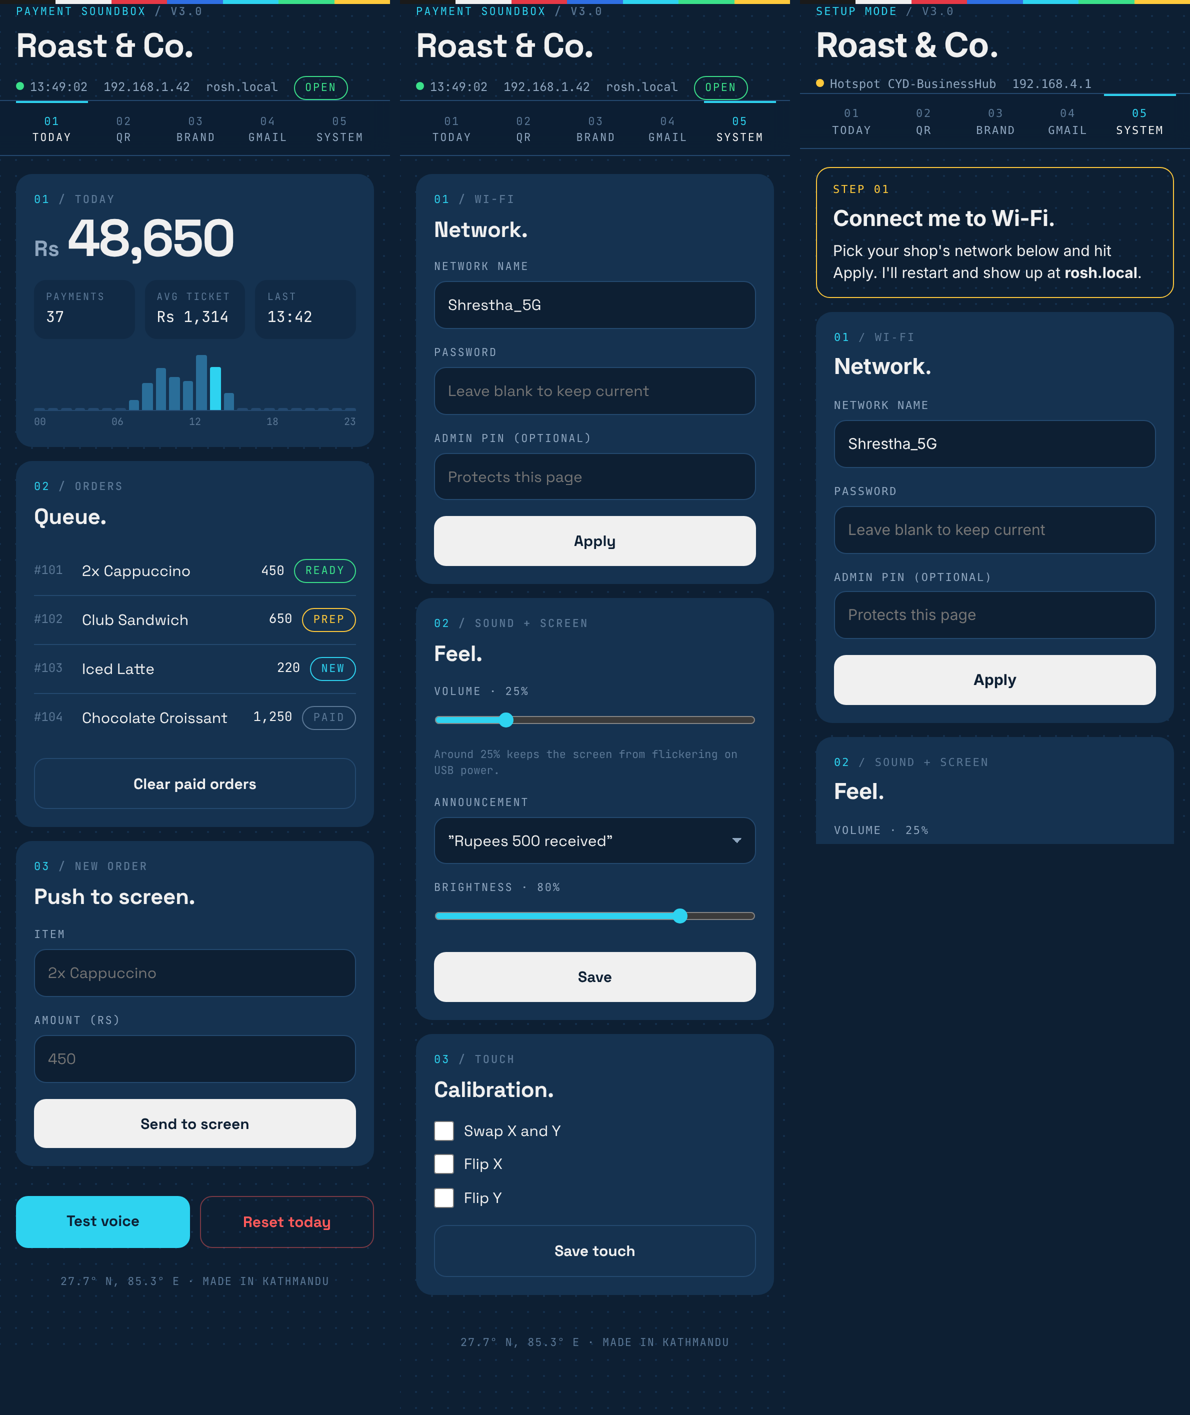
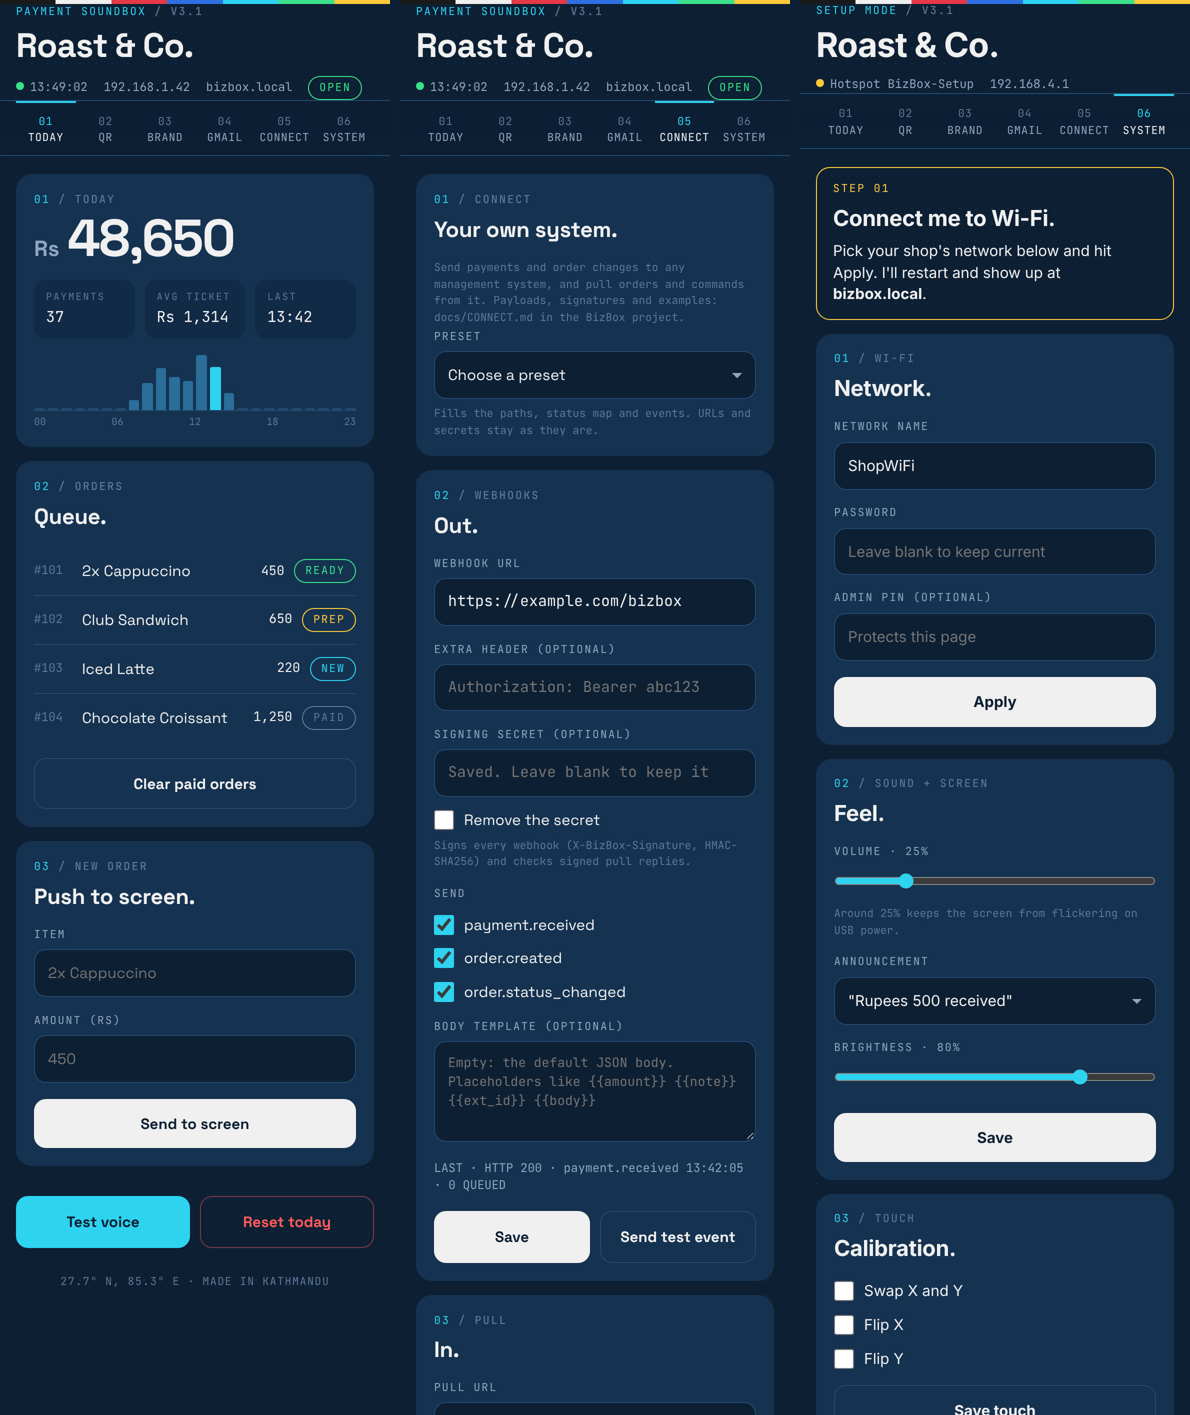
v3.1; fit six dashboard tabs on a phone; regenerate dashboard preview
- FW_VERSION 3.1 (new NVS keys, API auth, Connect). Only the boot
  screen's version label changes in the previews.
- With the Connect tab the System tab slid off-screen on a 390 px phone
  (and it's the active tab in setup mode): tabs are a bit narrower and
  the active one is scrolled into view.
- preview.sh --web now builds previews/dashboard-previews.png itself
  (Today, Connect, setup mode) from the sample data, replacing a manual
  screenshot that showed a real home network name.

Claude-Session: https://claude.ai/code/session_01YArwWxDtcxVketRmg6nC3F

diff --git a/web.h b/web.h
@@ -29,7 +29,7 @@ h2{font-size:22px;font-weight:700;letter-spacing:-.01em;margin:6px 0 14px}
 .pill.open{color:var(--green)}.pill.closed{color:var(--red)}
 .tabs{position:sticky;top:0;z-index:9;background:rgba(13,31,51,.94);backdrop-filter:blur(8px);-webkit-backdrop-filter:blur(8px);border-top:1px solid var(--line);border-bottom:1px solid var(--line);margin-bottom:18px}
 .tabs .wrap{display:flex;overflow-x:auto;scrollbar-width:none}
-.tab{flex:1;min-width:72px;background:none;border:0;color:var(--muted);padding:10px 4px 9px;font-size:11px;letter-spacing:.12em;text-transform:uppercase;cursor:pointer;border-top:2px solid transparent;line-height:1.5}
+.tab{flex:1;min-width:54px;background:none;border:0;color:var(--muted);padding:10px 2px 9px;font-size:11px;letter-spacing:.05em;text-transform:uppercase;cursor:pointer;border-top:2px solid transparent;line-height:1.5}
 .tab i{display:block;font-style:normal;color:var(--dim)}
 .tab.on{color:var(--ink);border-top-color:var(--cyan)}.tab.on i{color:var(--cyan)}
 .pane{display:none}.pane.on{display:block}
@@ -107,6 +107,7 @@ const mx=Math.max(1,...s.hourly);$('#bars').innerHTML=s.hourly.map((v,h)=>'<div 
 $('#orders').innerHTML=s.orders.length?s.orders.map(o=>'<div class="row"><span class="id">#'+o.id+'</span><span class="t">'+esc(o.title)+'</span><span class="a">'+(o.amount?amt(o.amount):'-')+'</span><span class="pill s-'+o.status+'">'+o.status+'</span></div>').join(''):'<p class="empty">Nothing queued.</p>';}
 function refresh(){api('/api/state').then(r=>r.json()).then(render).catch(()=>{})}
 try{const t=localStorage.getItem('tab');if(t&&$('#'+t)&&!document.body.dataset.portal){tab(t,$('[data-t='+t+']'))}}catch(e){}
+try{$('.tab.on').scrollIntoView({inline:'nearest',block:'nearest'})}catch(e){}
 try{const sel=$('#cxpreset');PRESETS.forEach((p,i)=>{const o=document.createElement('option');o.value=i;o.textContent=p.name;sel.appendChild(o)})}catch(e){}
 if(!document.body.dataset.portal){refresh();setInterval(()=>{if(!document.hidden)refresh()},5000);document.addEventListener('visibilitychange',()=>{if(!document.hidden)refresh()})}
 )JS";

diff --git a/tools/check/shot.py b/tools/check/shot.py
@@ -14,11 +14,21 @@ async def main():
         await pg.route('**/fonts.googleapis.com/**',fonts)
         await pg.route('**/fonts.gstatic.com/**',lambda r: r.abort())
         await pg.goto('file://'+TMP+'/dash.html'); await pg.wait_for_timeout(400)
-        await pg.screenshot(path=OUT+'/web_today.png',full_page=True)
+        await pg.screenshot(path=TMP+'/web_today.png',full_page=True)
         for t,n in [('t-qr','web_qr'),('t-gmail','web_gmail'),('t-cx','web_connect'),('t-sys','web_sys')]:
             await pg.click(f'[data-t={t}]'); await pg.wait_for_timeout(150)
-            await pg.screenshot(path=OUT+'/'+n+'.png',full_page=True)
+            await pg.screenshot(path=TMP+'/'+n+'.png',full_page=True)
         await pg.goto('file://'+TMP+'/portal.html'); await pg.wait_for_timeout(300)
-        await pg.screenshot(path=OUT+'/web_portal.png',full_page=False)
+        await pg.screenshot(path=TMP+'/web_portal.png',full_page=True)
         await b.close()
 asyncio.run(main())
+
+# Contact sheet for the README: Today, Connect, setup mode (first ~1400 px of each)
+from PIL import Image
+panels=[Image.open(TMP+'/'+n+'.png') for n in ('web_today','web_connect','web_portal')]
+H=1415
+sheet=Image.new('RGB',(390*3+20,H),(13,31,51))
+for i,im in enumerate(panels):
+    im=im.resize((390,int(im.height*390/im.width)))
+    sheet.paste(im.crop((0,0,390,min(H,im.height))),(i*400,0))
+sheet.save(OUT+'/dashboard-previews.png')

diff --git a/model.h b/model.h
@@ -92,4 +92,4 @@ const char* const CX_DEFAULT_MAP =
 
 #define AP_NAME   "BizBox-Setup"
 #define MDNS_NAME "bizbox"
-#define FW_VERSION "3.0"
+#define FW_VERSION "3.1"
